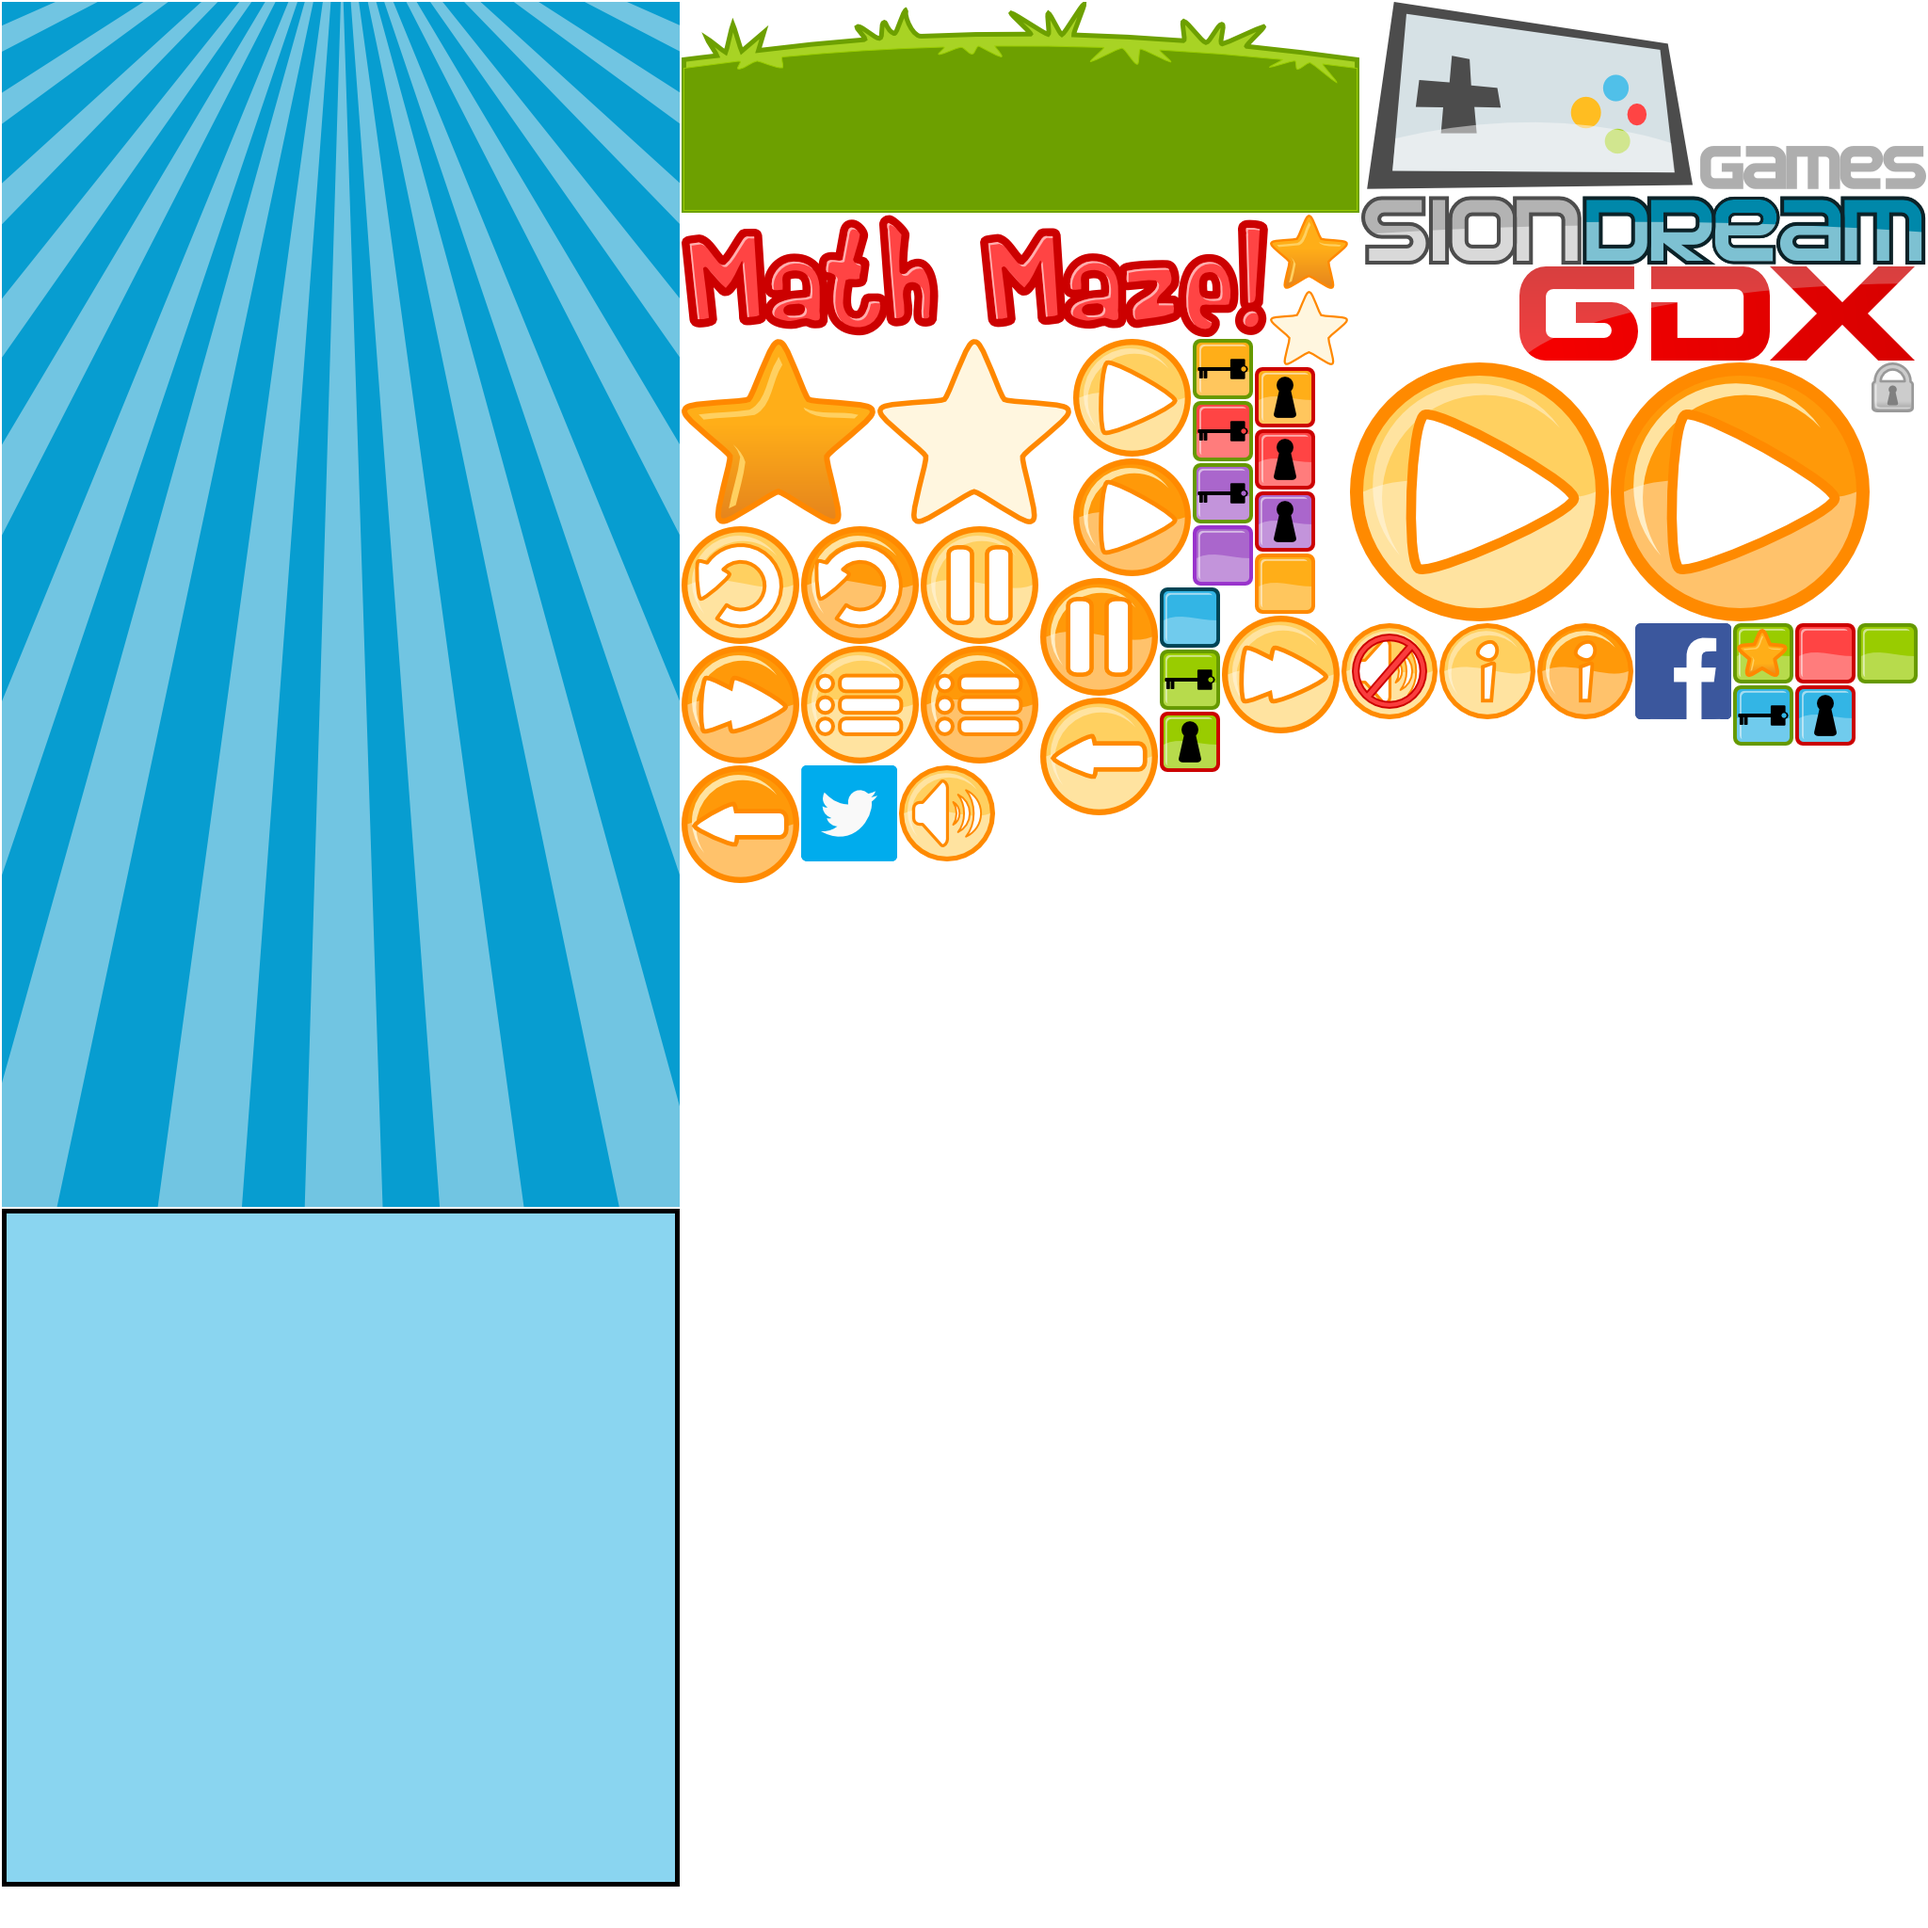
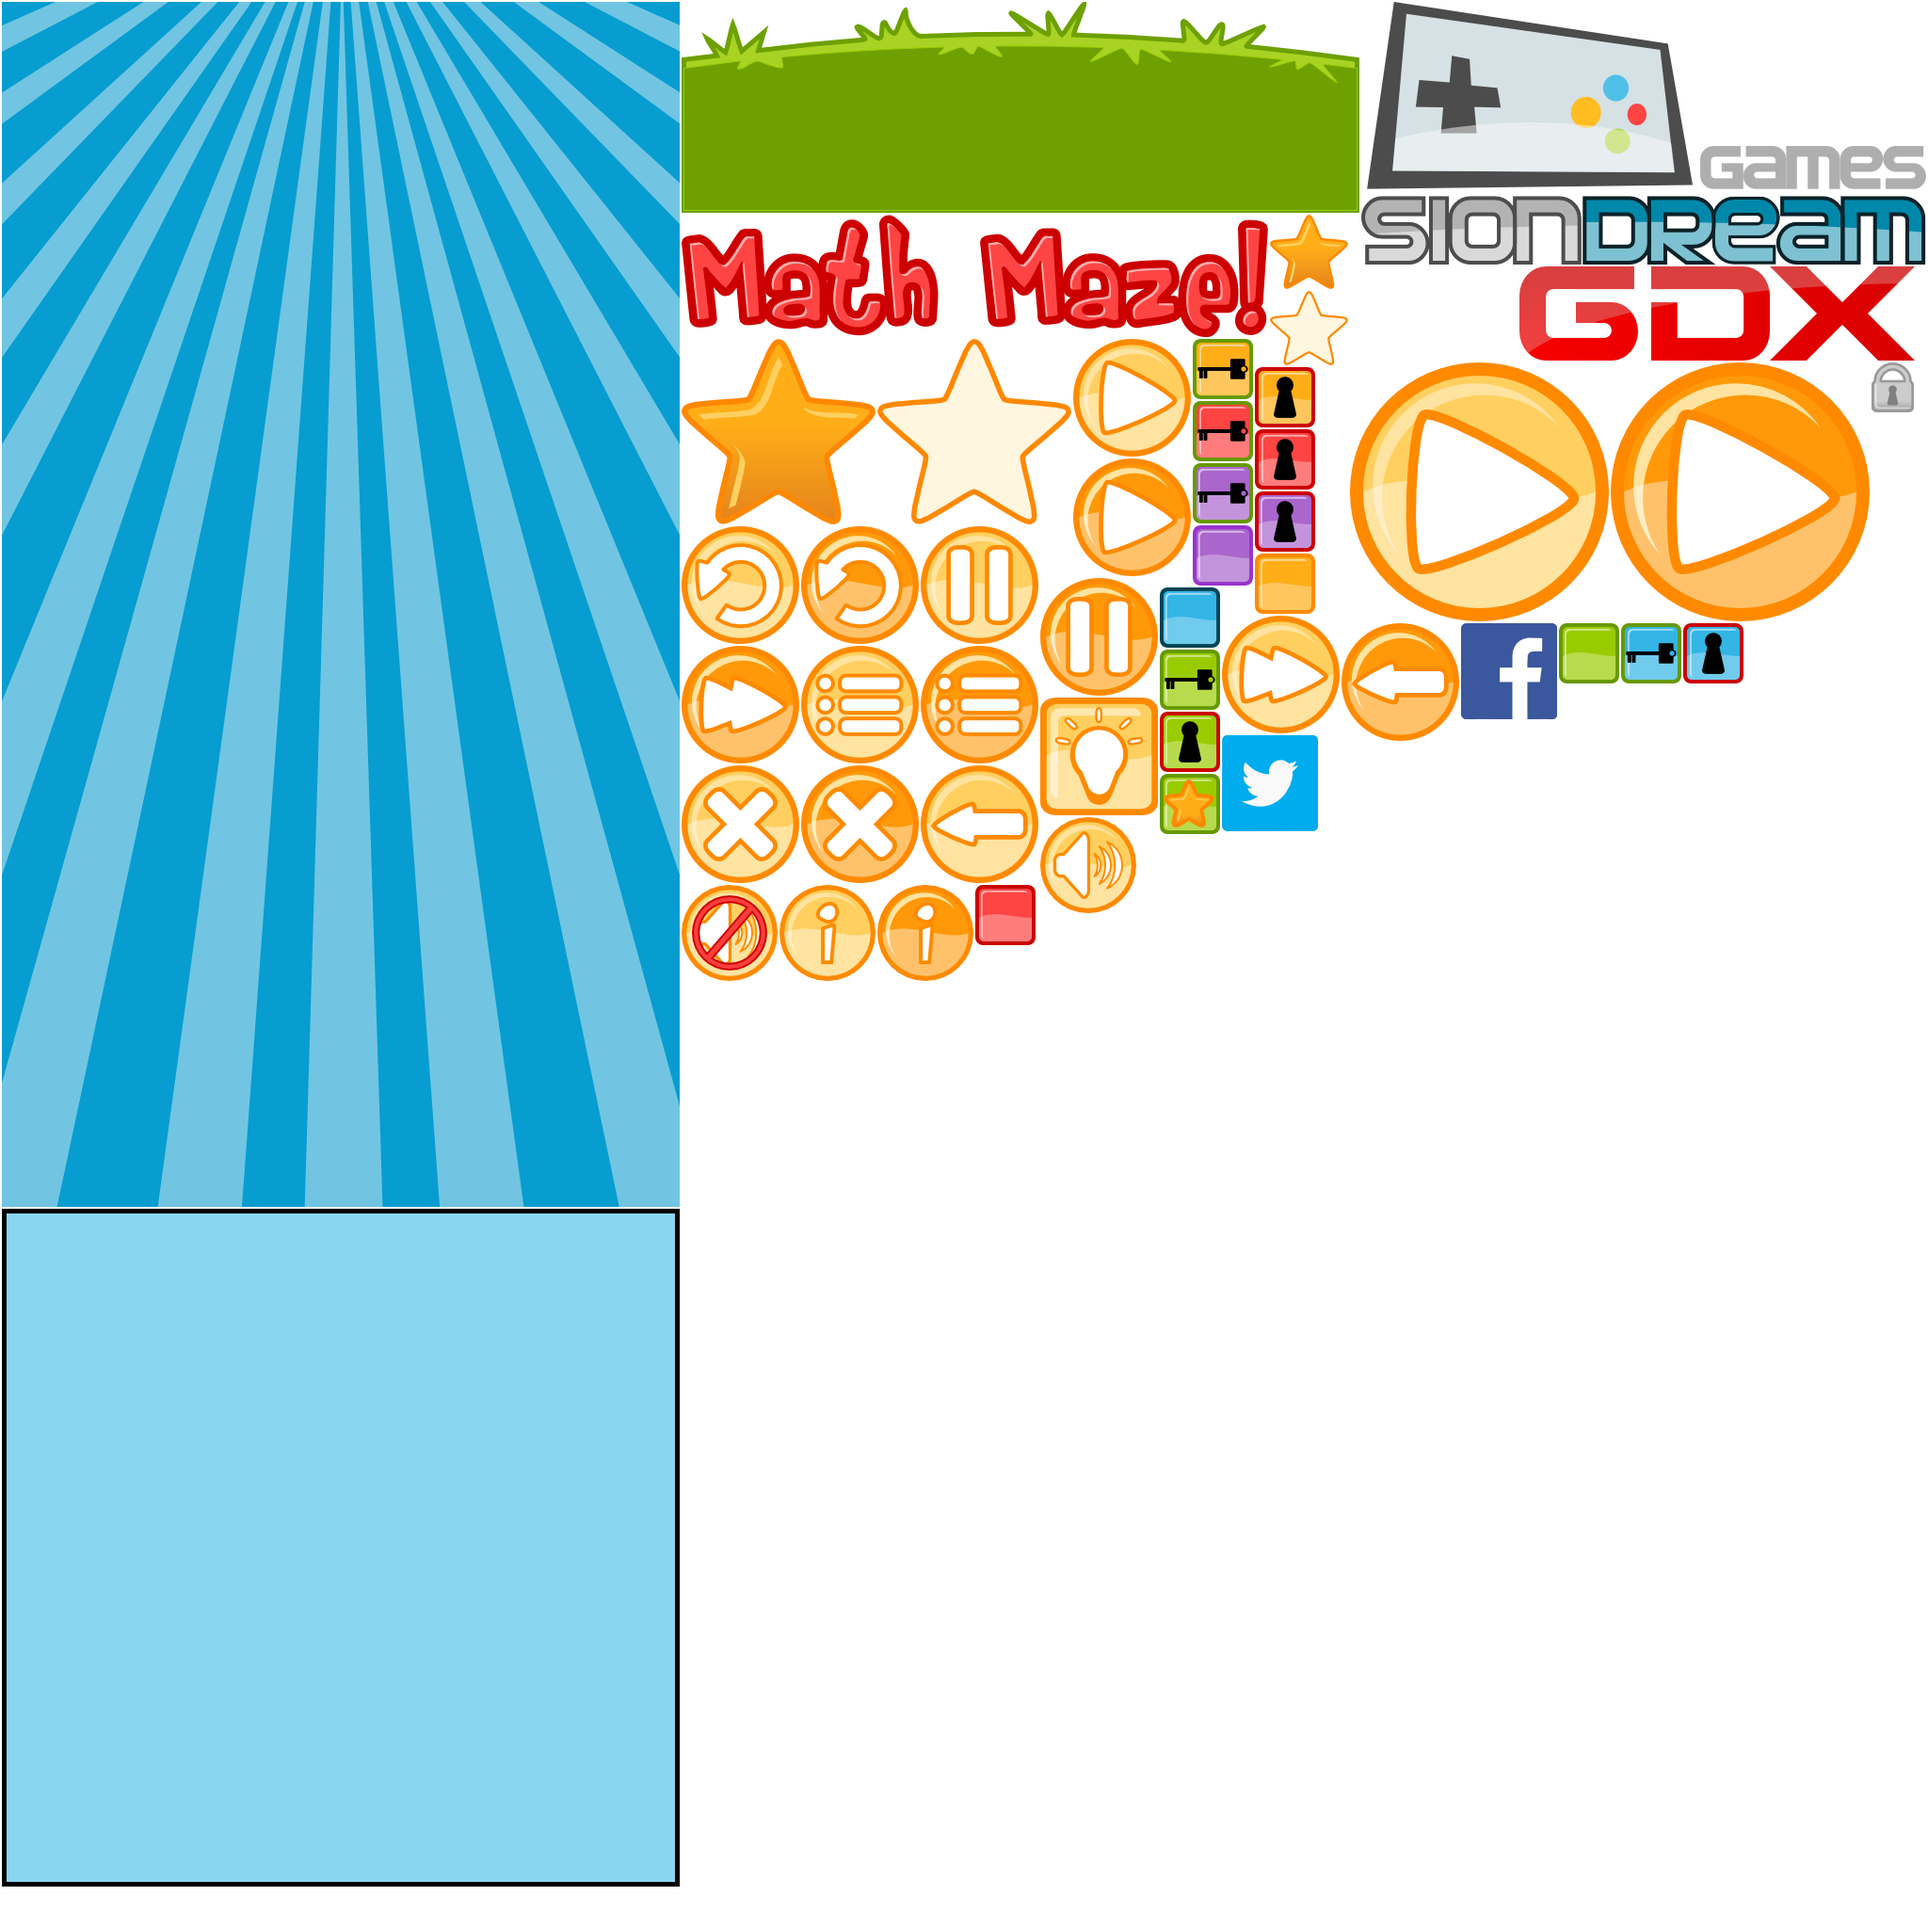
!F - Adds initial version of help system

Changed region(s): [[0.3438, 0.3438, 0.6875, 0.5312], [0.6875, 0.3125, 1.0, 0.4062]]

diff --git a/mathmaze/src/com/siondream/math/GameScreen.java b/mathmaze/src/com/siondream/math/GameScreen.java
@@ -25,6 +25,7 @@ import com.badlogic.gdx.scenes.scene2d.ui.ImageButton.ImageButtonStyle;
 import com.badlogic.gdx.scenes.scene2d.ui.Skin;
 import com.badlogic.gdx.scenes.scene2d.ui.Table;
 import com.badlogic.gdx.scenes.scene2d.ui.WidgetGroup;
+import com.badlogic.gdx.scenes.scene2d.utils.Align;
 import com.badlogic.gdx.scenes.scene2d.utils.ClickListener;
 import com.badlogic.gdx.scenes.scene2d.utils.TextureRegionDrawable;
 import com.badlogic.gdx.utils.Array;
@@ -55,6 +56,7 @@ public class GameScreen extends SionScreen {
 	public final static String TAG = "GameScreen";
 	
 	private enum State {
+		HELP,
 		GAME,
 		PAUSE,
 		VICTORY,
@@ -91,6 +93,11 @@ public class GameScreen extends SionScreen {
 	private Image[] stars;
 	private TextureRegionDrawable regionStarOn;
 	private TextureRegionDrawable regionStarOff;
+	
+	// Help UI
+	private ImageButton btnClose;
+	private Image imgHelp;
+	private ShaderLabel lblHelp;
 	
 	private Sound sfxVictory;
 	private Sound sfxTap;
@@ -153,6 +160,66 @@ public class GameScreen extends SionScreen {
 		
 		GameEnv.game.getLabelManager().update(delta);
 		lblTime.setText(Env.game.getLang().getString("Time") + ": " + chrono.getTime());
+	}
+	
+	public void victory() {
+		state = State.VICTORY;
+		chrono.pause();
+		
+		Engine engine = Env.game.getEngine();
+		engine.getSystem(PlayerControllerSystem.class).enable(false);
+		engine.getSystem(MathRenderingSystem.class).setRenderMap(false);
+		
+		int numStars = getStars();
+		
+		lblVictoryMsg.setText(victoryMsgs[numStars - 1]);
+		TextBounds bounds = lblVictoryMsg.getTextBounds();
+		
+		if (GameEnv.debugMap.length() == 0 && level.stars < numStars) {
+			GameEnv.game.getLevelManager().saveStars(level, numStars);
+		}
+		
+		Timeline timeline = Timeline.createSequence();
+		
+		timeline.beginSequence();
+		
+		
+		timeline.push(Tween.to(controlTable, ActorTweener.Position, 0.12f)
+						   .target(controlTable.getX(), -controlTable.getHeight())
+						   .ease(TweenEquations.easeInOutQuad))
+				.push(Tween.to(lblCompleted, ActorTweener.Position, 0.2f)
+						   .target((Env.virtualWidth - lblCompleted.getWidth() * lblCompleted.getFontScaleX()) * 0.5f, lblCompleted.getY())
+						   .ease(TweenEquations.easeInQuad));
+		
+		timeline.beginParallel();
+		for (int i = 0; i < stars.length; ++i) {
+			Image star = stars[i];
+			
+			star.setVisible(true);
+			
+			star.setDrawable((i < numStars) ? regionStarOn : regionStarOff);
+			
+			timeline.push(Tween.to(star, ActorTweener.Scale, 0.3f)
+							   .target(1.0f, 1.0f)
+							   .ease(TweenEquations.easeInQuad)
+							   .delay(0.2f * i));
+		}
+		timeline.end();
+		
+		timeline.push(Tween.to(lblVictoryMsg, ActorTweener.Position, 0.25f)
+						   .target((Env.virtualWidth - bounds.width) * 0.5f, lblVictoryMsg.getY())
+						   .ease(TweenEquations.easeInQuad));
+		
+		timeline.push(Tween.to(victoryTable, ActorTweener.Position, 0.25f)
+						   .target(victoryTable.getX(), 20.0f)
+						   .ease(TweenEquations.easeInQuad));
+		
+		timeline.end()
+				.start(Env.game.getTweenManager());
+		
+		if (GameEnv.soundEnabled) {
+			sfxVictory.play();
+		}
 	}
 	
 	private void initGame() {
@@ -368,6 +435,21 @@ public class GameScreen extends SionScreen {
 		labelsGroup = new WidgetGroup();
 		GameEnv.game.getLabelManager().setGroup(labelsGroup);
 		
+		btnClose = new ImageButton(skin, "close");
+		imgHelp = new Image(skin, "help");
+		lblHelp = new ShaderLabel("", skin, "game");
+		
+		btnClose.addListener(new ClickListener() {
+			@Override
+			public void clicked(InputEvent event, float x, float y) {
+				if (GameEnv.soundEnabled) {
+					sfxTap.play();
+				}
+				
+				helpOut();
+			}
+		});
+		
 		stage.addActor(imgBackground);
 		stage.addActor(labelsGroup);
 		stage.addActor(imgLand);
@@ -381,6 +463,9 @@ public class GameScreen extends SionScreen {
 		stage.addActor(lblCompleted);
 		stage.addActor(lblVictoryMsg);
 		stage.addActor(controlTable);
+		stage.addActor(btnClose);
+		stage.addActor(imgHelp);
+		stage.addActor(lblHelp);
 		
 		for (Image star : stars) {
 			stage.addActor(star);
@@ -397,6 +482,10 @@ public class GameScreen extends SionScreen {
 		imgMapBackground.setY(GameEnv.cameraScreenPos.y - 5.0f);
 		imgMapBackground.setColor(1.0f, 1.0f, 1.0f, 0.0f);
 		controlTable.setPosition(0.0f, -controlTable.getHeight());
+		imgHelp.setPosition(Env.virtualWidth, GameEnv.cameraScreenPos.y + GameEnv.cameraHeight - imgHelp.getHeight() - 35.0f);
+		lblHelp.setVisible(false);
+		lblHelp.setFontScale(2.0f);
+		btnClose.setPosition(Env.virtualWidth, GameEnv.cameraScreenPos.y + 35.0f);
 		
 		chrono.reset();
 		chrono.pause();
@@ -431,7 +520,19 @@ public class GameScreen extends SionScreen {
 			public void onEvent(int type, BaseTween<?> source) {
 				if (type == TweenCallback.COMPLETE) {
 					animateTitle();
-					onGameStart();
+					
+					TagSystem tagSystem = Env.game.getEngine().getSystem(TagSystem.class);
+					Entity mapEntity = tagSystem.getEntity(GameEnv.mapTag);
+					MapComponent map = mapEntity != null ? mapEntity.getComponent(MapComponent.class) : null;
+					String helpText = map.map.getProperties().get("help", "", String.class);
+					
+					if (helpText.isEmpty() || level.stars > 0) {
+						gameIn();
+					}
+					else {
+						lblHelp.setText(helpText);
+						helpIn();
+					}
 				}
 			}
 		};
@@ -453,14 +554,11 @@ public class GameScreen extends SionScreen {
 					.push(Tween.to(lblTime, ActorTweener.Position, 0.2f)
 							   .target(Env.virtualWidth - lblTime.getWidth() * lblTime.getFontScaleX() - 20.0f, lblTime.getY())
 							   .ease(TweenEquations.easeInOutQuad))
-					.push(Tween.to(controlTable, ActorTweener.Position, 0.2f)
-							   .target(controlTable.getX(), 20.0f)
-							   .ease(TweenEquations.easeInOutQuad))
 				.end()
 				.setCallback(callback)
 				.start(Env.game.getTweenManager());
 	}
-	
+
 	public void animateOut(final Class<? extends SionScreen> screenType) {
 		Env.game.getEngine().getSystem(MathRenderingSystem.class).setRenderMap(false);
 		
@@ -478,10 +576,13 @@ public class GameScreen extends SionScreen {
 		
 		timeline.beginSequence();
 		
-		timeline.push(Tween.to(controlTable, ActorTweener.Position, 0.12f)
-				   		   .target(controlTable.getX(), -controlTable.getHeight())
-				   		   .ease(TweenEquations.easeInOutQuad))
-				.push(Tween.to(lblTime, ActorTweener.Position, 0.1f)
+		if (state != State.HELP) {
+			timeline.push(Tween.to(controlTable, ActorTweener.Position, 0.12f)
+					.target(controlTable.getX(), -controlTable.getHeight())
+			   		.ease(TweenEquations.easeInOutQuad));
+		}
+		
+		timeline.push(Tween.to(lblTime, ActorTweener.Position, 0.1f)
 						   .target(Env.virtualWidth, lblTime.getY())
 						   .ease(TweenEquations.easeInOutQuad))
 				.push(Tween.to(lblLevel, ActorTweener.Position, 0.2f)
@@ -514,6 +615,17 @@ public class GameScreen extends SionScreen {
 							   .target(Env.virtualWidth, lblCompleted.getY())
 							   .ease(TweenEquations.easeInOutQuad));
 		}
+		else if (state == State.HELP) {
+			timeline.push(Tween.to(btnClose, ActorTweener.Position, 0.2f)
+					   		   .target(Env.virtualWidth, btnClose.getY())
+					   		   .ease(TweenEquations.easeInOutQuad))
+					.push(Tween.to(lblHelp, ActorTweener.Color, 0.2f)
+					      	   .target(0.0f, 0.0f, 0.0f, 0.0f)
+							   .ease(TweenEquations.easeInOutQuad))
+					.push(Tween.to(imgHelp, ActorTweener.Position, 0.2f)
+							   .target(Env.virtualWidth, imgHelp.getY())
+							   .ease(TweenEquations.easeInOutQuad));
+		}
 		
 		timeline.push(Tween.to(imgMapBackground, ActorTweener.Color, 0.2f)
 						   .target(1.0f, 1.0f, 1.0f, 0.0f)
@@ -528,6 +640,24 @@ public class GameScreen extends SionScreen {
 				.end()
 				.setCallback(callback)
 				.start(Env.game.getTweenManager());
+	}
+	
+	private void gameIn() {
+		TweenCallback callback = new TweenCallback() {
+
+			@Override
+			public void onEvent(int type, BaseTween<?> source) {
+				if (type == TweenCallback.COMPLETE) {
+					onGameStart();
+				}
+			}
+		};
+		
+		Tween.to(controlTable, ActorTweener.Position, 0.2f)
+		     .target(controlTable.getX(), 20.0f)
+			 .ease(TweenEquations.easeInOutQuad)
+			 .setCallback(callback)
+			 .start(Env.game.getTweenManager());
 	}
 	
 	private void animateTitle() {
@@ -614,64 +744,67 @@ public class GameScreen extends SionScreen {
 				.start(Env.game.getTweenManager());
 	}
 	
-	public void victory() {
-		state = State.VICTORY;
-		chrono.pause();
+	private void helpIn() {
+		state = State.HELP;
 		
-		Engine engine = Env.game.getEngine();
-		engine.getSystem(PlayerControllerSystem.class).enable(false);
-		engine.getSystem(MathRenderingSystem.class).setRenderMap(false);
+		lblHelp.setVisible(true);
+		lblHelp.setColor(0.0f, 0.0f, 0.0f, 0.0f);
 		
-		int numStars = getStars();
+		TextBounds bounds = lblHelp.getTextBounds();
+		lblHelp.setPosition((Env.virtualWidth - bounds.width) * 0.5f,
+							GameEnv.cameraScreenPos.y + (GameEnv.cameraHeight - bounds.height) * 0.5f);
 		
-		lblVictoryMsg.setText(victoryMsgs[numStars - 1]);
-		TextBounds bounds = lblVictoryMsg.getTextBounds();
+		lblHelp.setWrap(true);
+		lblHelp.setHeight(200.0f);
+		lblHelp.setWidth(GameEnv.cameraWidth - 40.0f);
+		lblHelp.setAlignment(Align.center, Align.left);
+		lblHelp.layout();
 		
-		if (GameEnv.debugMap.length() == 0 && level.stars < numStars) {
-			GameEnv.game.getLevelManager().saveStars(level, numStars);
-		}
 		
 		Timeline timeline = Timeline.createSequence();
 		
-		timeline.beginSequence();
-		
-		
-		timeline.push(Tween.to(controlTable, ActorTweener.Position, 0.12f)
-						   .target(controlTable.getX(), -controlTable.getHeight())
-						   .ease(TweenEquations.easeInOutQuad))
-				.push(Tween.to(lblCompleted, ActorTweener.Position, 0.2f)
-						   .target((Env.virtualWidth - lblCompleted.getWidth() * lblCompleted.getFontScaleX()) * 0.5f, lblCompleted.getY())
-						   .ease(TweenEquations.easeInQuad));
-		
-		timeline.beginParallel();
-		for (int i = 0; i < stars.length; ++i) {
-			Image star = stars[i];
-			
-			star.setVisible(true);
-			
-			star.setDrawable((i < numStars) ? regionStarOn : regionStarOff);
-			
-			timeline.push(Tween.to(star, ActorTweener.Scale, 0.3f)
-							   .target(1.0f, 1.0f)
-							   .ease(TweenEquations.easeInQuad)
-							   .delay(0.2f * i));
-		}
-		timeline.end();
-		
-		timeline.push(Tween.to(lblVictoryMsg, ActorTweener.Position, 0.25f)
-						   .target((Env.virtualWidth - bounds.width) * 0.5f, lblVictoryMsg.getY())
-						   .ease(TweenEquations.easeInQuad));
-		
-		timeline.push(Tween.to(victoryTable, ActorTweener.Position, 0.25f)
-						   .target(victoryTable.getX(), 20.0f)
-						   .ease(TweenEquations.easeInQuad));
-		
-		timeline.end()
+		timeline.beginSequence()
+					.push(Tween.to(imgHelp, ActorTweener.Position, 0.2f)
+							   .target((Env.virtualWidth - imgHelp.getWidth()) * 0.5f, imgHelp.getY())
+							   .ease(TweenEquations.easeInOutQuad))
+					.push(Tween.to(lblHelp, ActorTweener.Color, 0.2f)
+					      	   .target(0.0f, 0.0f, 0.0f, 1.0f)
+							   .ease(TweenEquations.easeInOutQuad))
+					.push(Tween.to(btnClose, ActorTweener.Position, 0.2f)
+							   .target((Env.virtualWidth - btnClose.getWidth()) * 0.5f, btnClose.getY())
+							   .ease(TweenEquations.easeInOutQuad))
+				.end()
 				.start(Env.game.getTweenManager());
+	}
+	
+	private void helpOut() {
+		TweenCallback callback = new TweenCallback() {
+
+			@Override
+			public void onEvent(int type, BaseTween<?> source) {
+				if (type == TweenCallback.COMPLETE) {
+					lblHelp.setVisible(false);
+					gameIn();
+				}
+			}
+		};
 		
-		if (GameEnv.soundEnabled) {
-			sfxVictory.play();
-		}
+		Timeline timeline = Timeline.createSequence();
+		
+		timeline.beginSequence()
+					.push(Tween.to(btnClose, ActorTweener.Position, 0.2f)
+							   .target(Env.virtualWidth, btnClose.getY())
+							   .ease(TweenEquations.easeInOutQuad))
+					.push(Tween.to(lblHelp, ActorTweener.Color, 0.2f)
+					      	   .target(0.0f, 0.0f, 0.0f, 0.0f)
+							   .ease(TweenEquations.easeInOutQuad))
+					.push(Tween.to(imgHelp, ActorTweener.Position, 0.2f)
+							   .target(Env.virtualWidth, imgHelp.getY())
+							   .ease(TweenEquations.easeInOutQuad))
+					
+				.end()
+				.setCallback(callback)
+				.start(Env.game.getTweenManager());
 	}
 	
 	private int getStars() {
